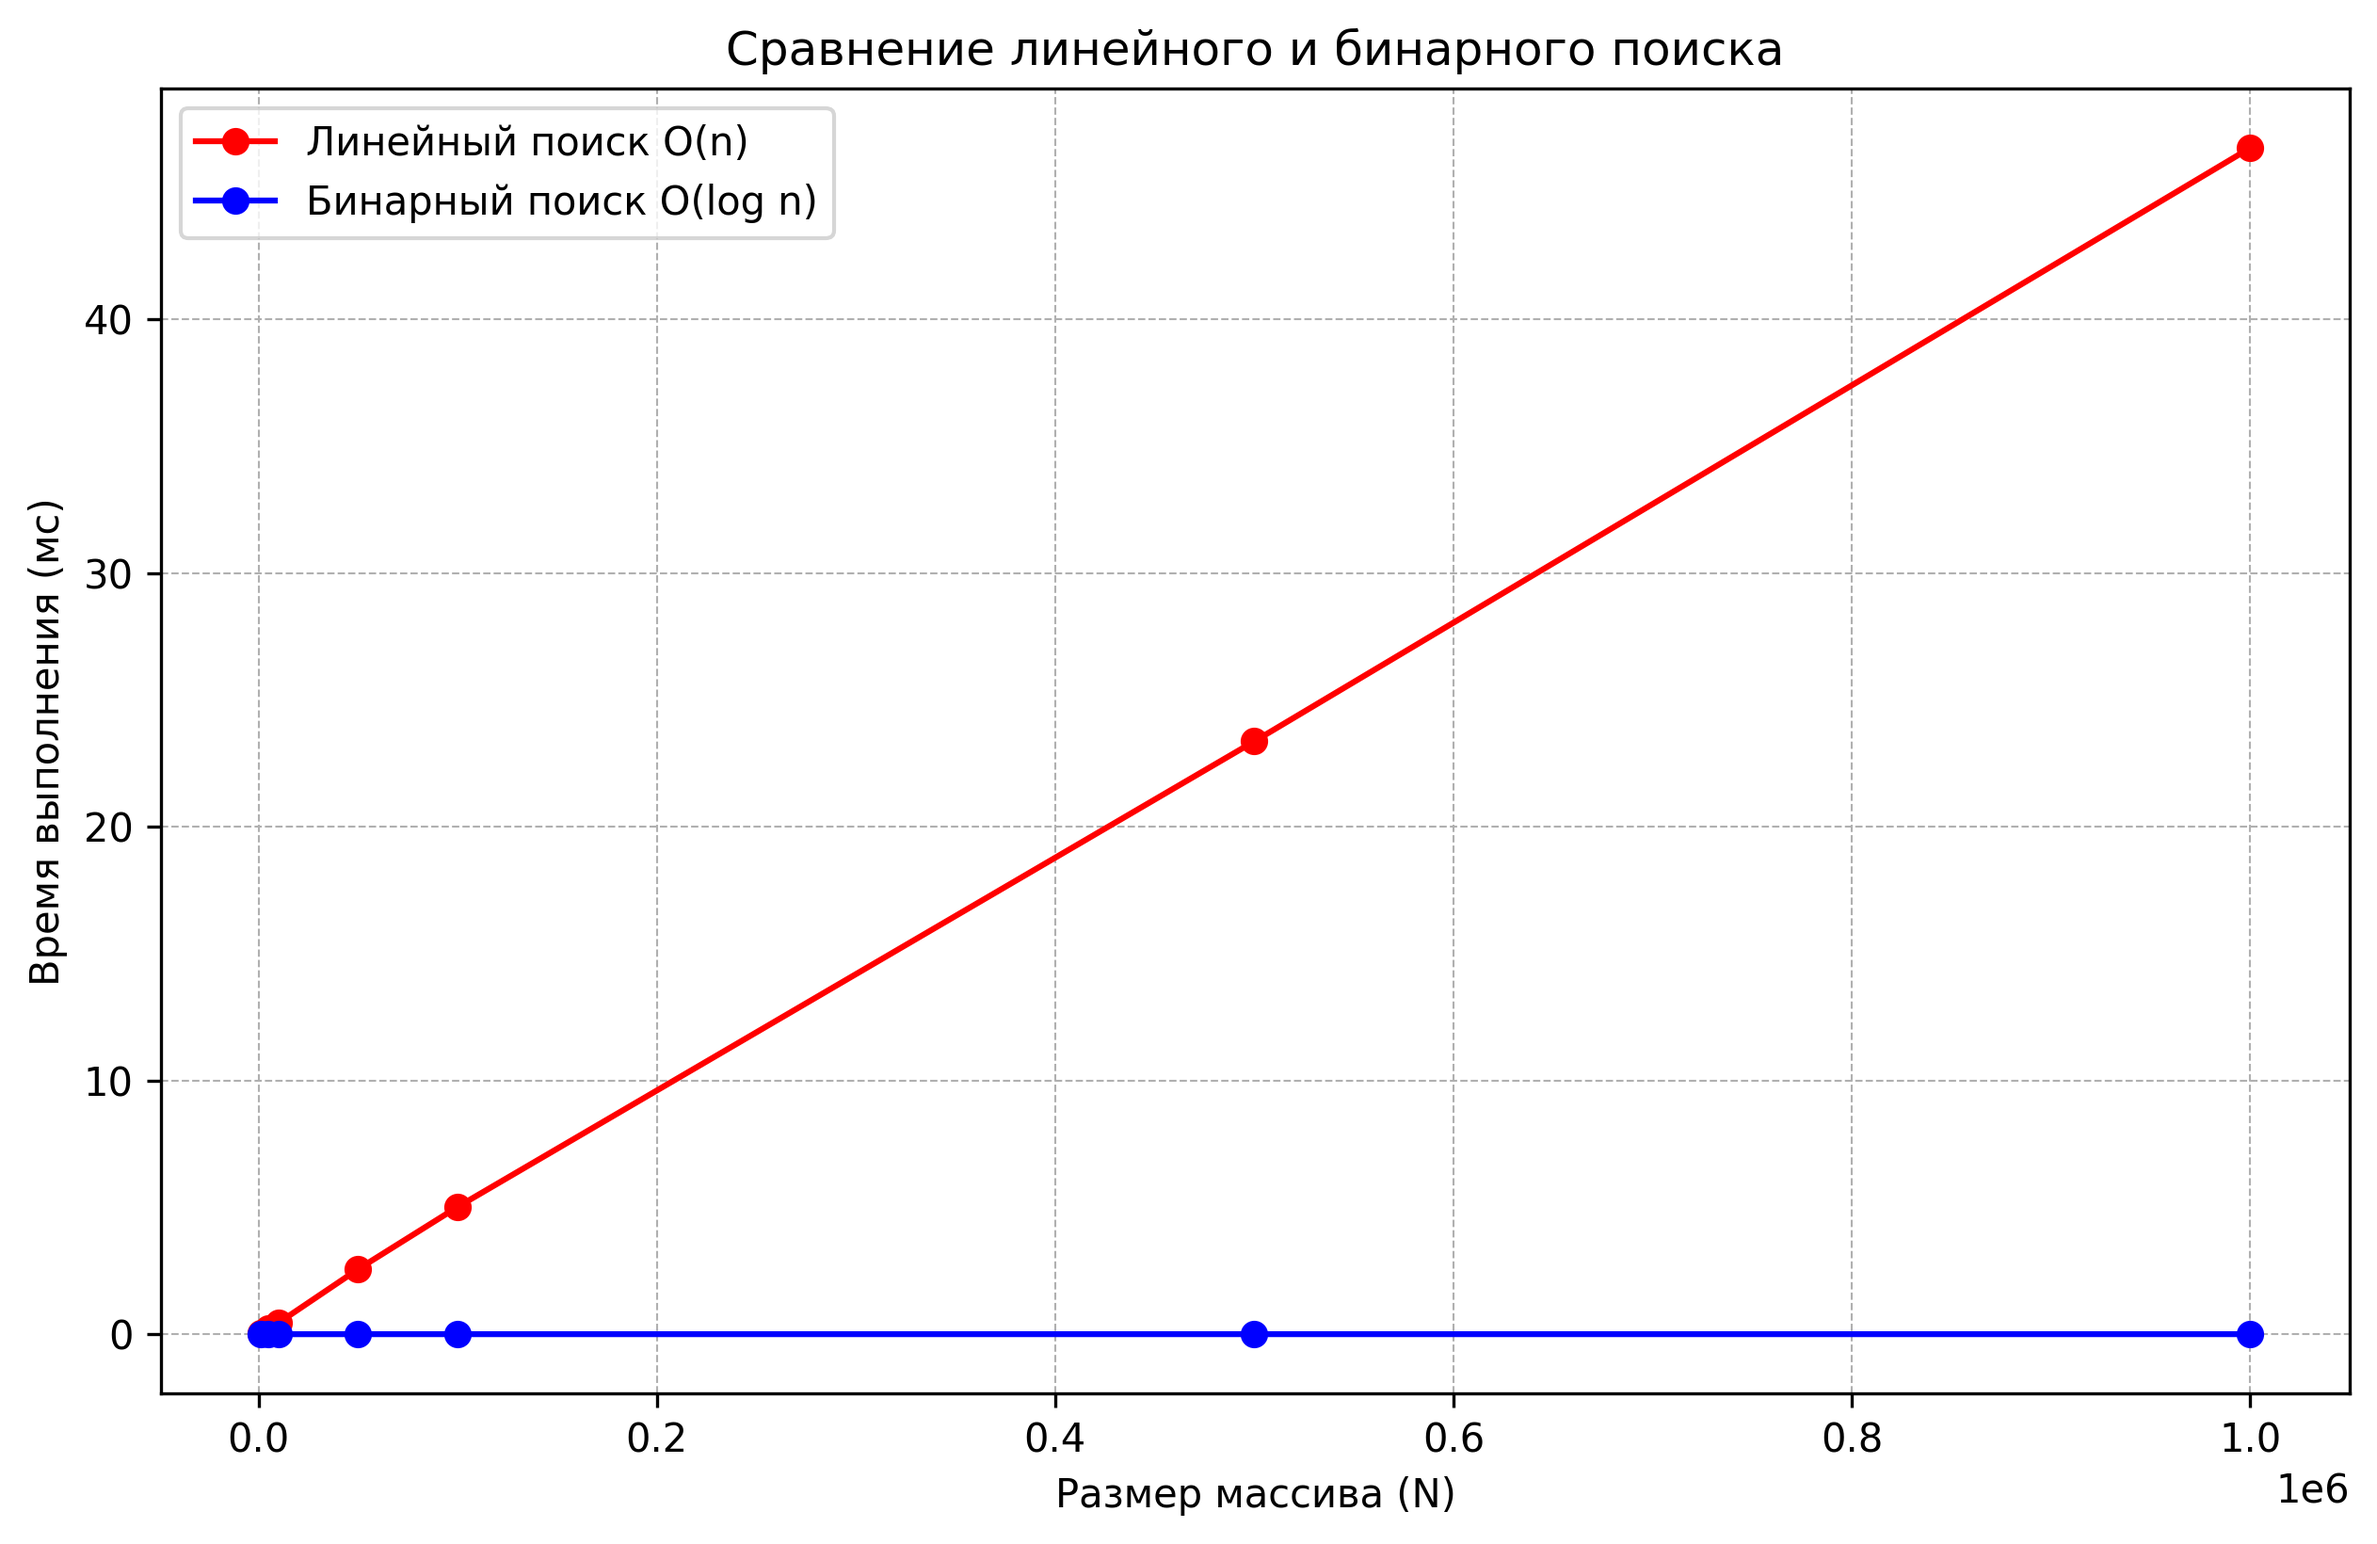
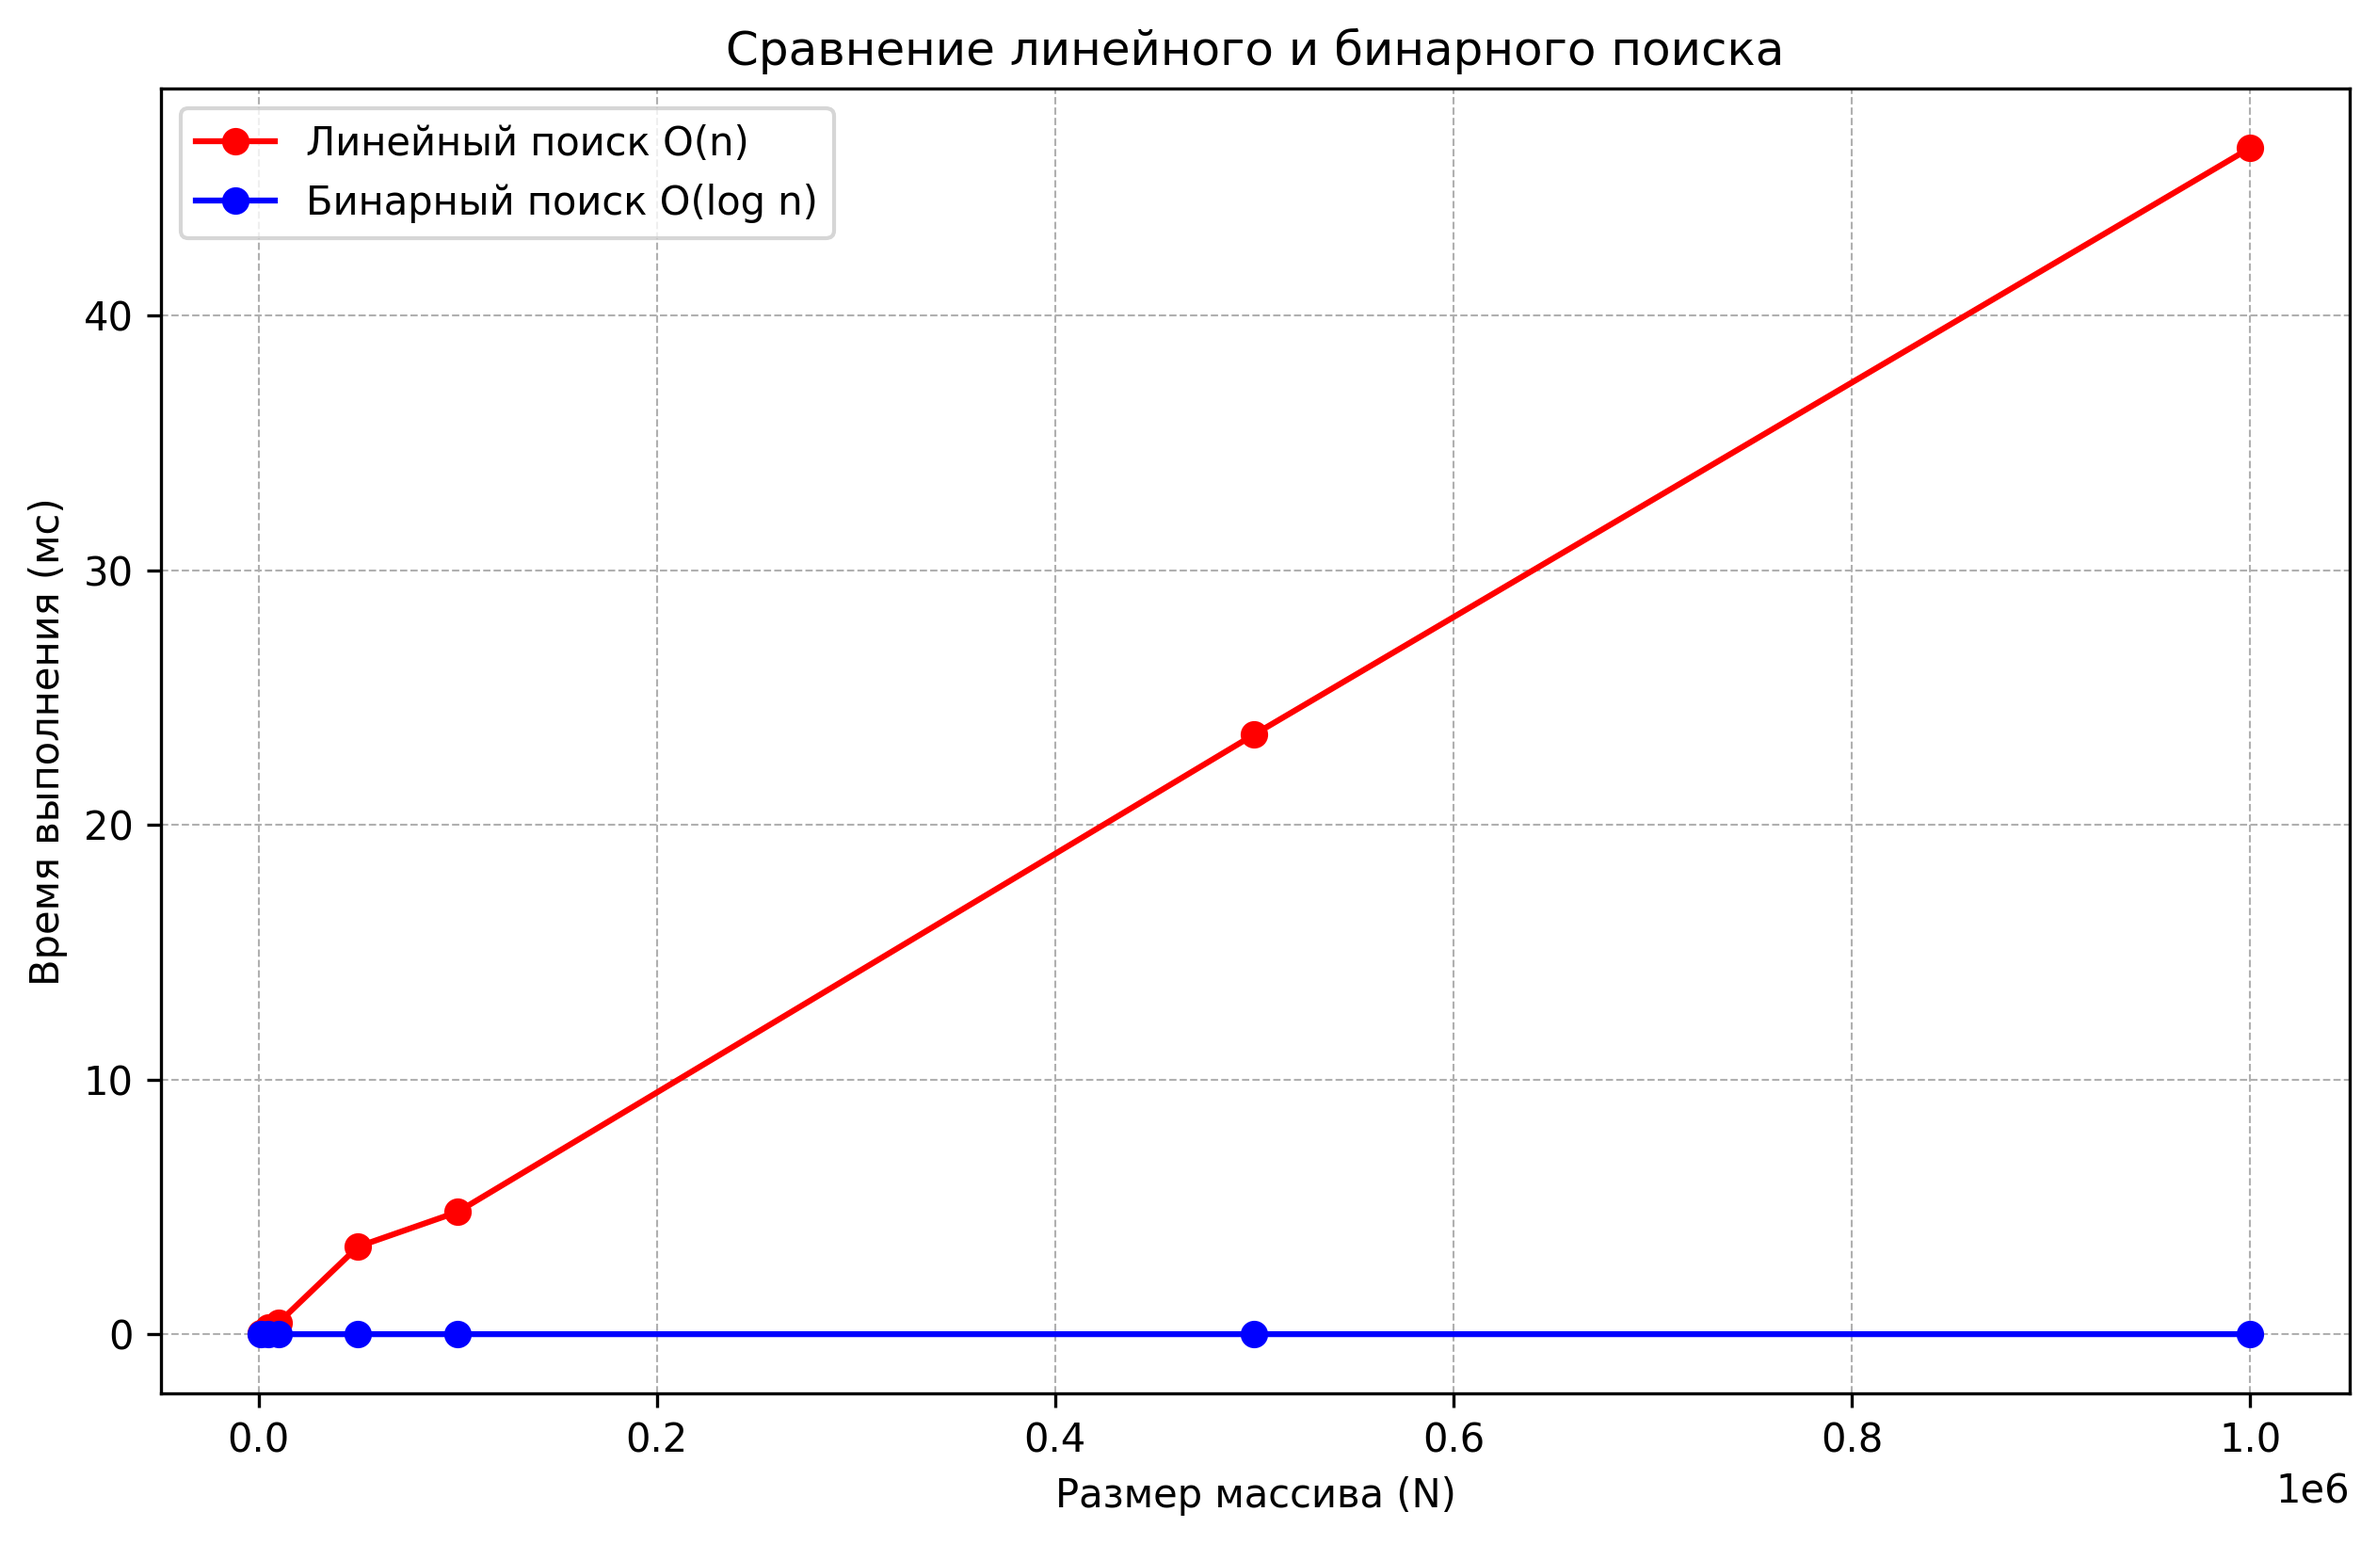
update .md

diff --git a/01_lab01/README.md b/01_lab01/README.md
@@ -1,0 +1,39 @@
+ Тема 01: Введение в алгоритмы. Сложность. Поиск.
+ Цель работы: Освоить понятие вычислительной сложности алгоритма. Получить практические навыки
+ реализации и анализа линейного и бинарного поиска. Научиться экспериментально подтверждать
+ теоретические оценки сложности O(n) и O(log n).
+ Теория (кратко):
+ Сложность алгоритма: Характеризует количество ресурсов (времени и памяти), необходимых
+ алгоритму для обработки входных данных объема n.
+ Асимптотический анализ: Анализ поведения алгоритма при стремлении n к бесконечности.
+ Позволяет абстрагироваться от констант и аппаратных особенностей.
+ O-нотация («О-большое»): Верхняя асимптотическая оценка роста функции. Определяет
+ наихудший сценарий работы алгоритма.
+ Линейный поиск (Linear Search): Последовательный перебор всех элементов массива.
+ Сложность: O(n).
+ Бинарный поиск (Binary Search): Поиск в отсортированном массиве путем многократного
+ деления интервала поиска пополам. Сложность: O(log n). Требует предварительной сортировки
+ (O(n log n)).
+ Практика (подробно):
+ Задание:
+ 1. Реализовать функцию линейного поиска элемента в массиве.
+ 2. Реализовать функцию бинарного поиска элемента в отсортированном массиве.
+ 3. Провести теоретический анализ сложности обоих алгоритмов.
+ 4. Экспериментально сравнить время выполнения алгоритмов на массивах разного размера.
+ 5. Визуализировать результаты, подтвердив асимптотику O(n) и O(log n).
+
+
+Было проведено 5 замеров и был записан усредненный результат
+ Замер рузультатов
+  Размер N   Линейный (мс)   Бинарный (мс)
+      1000        0.045120        0.002280
+      5000        0.274760        0.002780
+     10000        0.444780        0.002840
+     50000        3.441400        0.003600
+    100000        4.804400        0.003960
+    500000       23.556600        0.004160
+   1000000       46.588160        0.004460
+
+Сравнение скоростей ввиде графиков
+![пусто](./search_comparison_linear.png)
+![пусто](./search_comparison_log.png)
